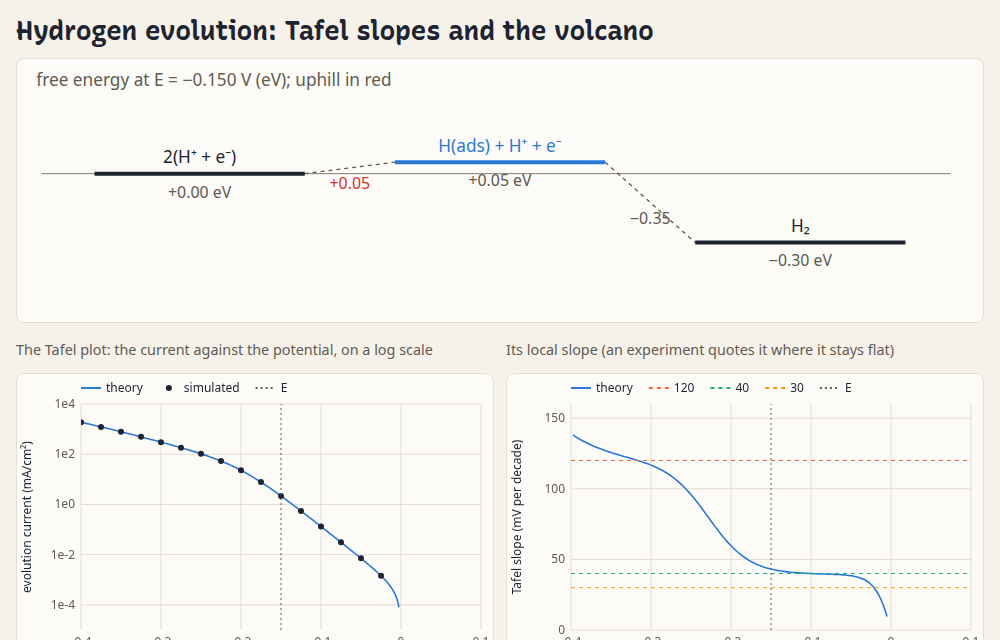
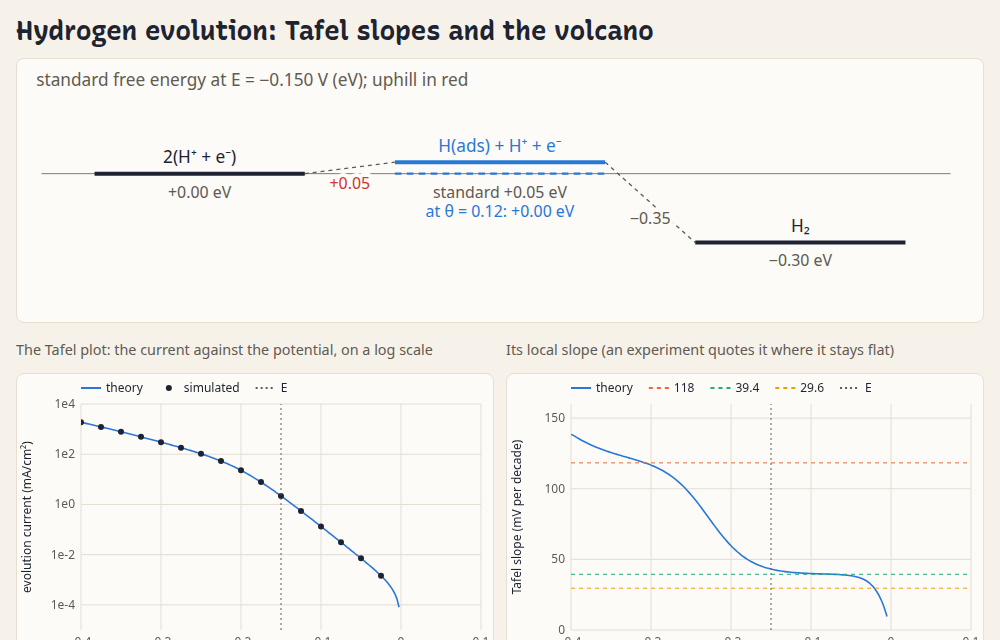
Hydrogen page: what a do-the-experiment review found
- The mirror (the Volmer route at −ΔG against the Heyrovsky route at +ΔG) held only at low drive: the
  fast step's constant differed between the routes. Now equal, so the mirror is exact at every potential
  (tested), and the coverage panel shows the bare sites θ₀ as well, so the swap can be seen.
- The menu's "slow" means a small rate constant; the text now says so, and that at the ends of the ΔG
  range the binding energy can hand much of the control to the other step.
- On the Tafel route a strong binder shows no Tafel region: the full-surface limit is i₀(1 + e^{ΔG/kT})²,
  1.06 i₀ at platinum's −0.09 eV (now said, and tested). The ΔG slider steps by 0.01 so −0.09 is reachable.
- A slow Volmer step leaves the surface barer as it's driven; "the surface fills" is for a fast one.
- The Heyrovsky slope passes up through 118 rather than settling there; the rise past it is from the
  acid's supply (90% left at −0.4 V, the rate going as its 3/2 power), now explained and tested at 139.
- The free-energy panel says its levels are standard, and adds H(ads) at its actual coverage (dashed),
  which puts the drive on the slow step; labels compact on a phone and haloed over the zero line.
- Small things: kT not RT with ΔG in eV, k_T defined, reference slopes at their exact values (118, 39.4,
  29.6), the slope readout at the slider's end, "at equilibrium" at E = 0, two decades at least on the
  Tafel plot, the volcano's ends unclipped.
[…]

Changed region(s): [[0.031, 0.0938, 0.465, 0.1562], [0.434, 0.25, 0.589, 0.3438], [0.744, 0.5938, 0.837, 0.625]]

diff --git a/demos/hydrogen.html b/demos/hydrogen.html
@@ -30,7 +30,7 @@
     below.)</p>
   <div class="controls">
     <label>route <select id="mech"><option value="volmer">Volmer–Heyrovsky, Volmer slow</option><option value="heyrovsky" selected>Volmer–Heyrovsky, Heyrovsky slow</option><option value="tafel">Volmer–Tafel, Tafel slow</option></select></label>
-    <label>ΔG<sub>H</sub> <input id="dG" type="range" min="-0.3" max="0.3" step="0.02" value="0.2"><output id="dGOut"></output></label>
+    <label>ΔG<sub>H</sub> <input id="dG" type="range" min="-0.3" max="0.3" step="0.01" value="0.2"><output id="dGOut"></output></label>
     <label>E <input id="E" type="range" min="-0.4" max="0.1" step="0.025" value="-0.15"><output id="EOut"></output></label>
     <span class="readout" id="status"></span>
   </div>
@@ -38,7 +38,7 @@
     <div class="levels wide" id="steps"></div>
     <div><p class="note">The Tafel plot: the current against the potential, on a log scale</p><canvas id="tafel"></canvas></div>
     <div><p class="note">Its local slope (an experiment quotes it where it stays flat)</p><canvas id="slope"></canvas></div>
-    <div><p class="note">The surface's hydrogen coverage</p><canvas id="cover"></canvas></div>
+    <div><p class="note">The surface's hydrogen coverage, and its bare sites</p><canvas id="cover"></canvas></div>
     <div><p class="note">Parsons's volcano: the exchange current against the binding energy</p><canvas id="volcano"></canvas></div>
   </div>
   <h2>About this simulation</h2>
@@ -49,30 +49,44 @@
     coverage settles where hydrogen arrives as fast as it leaves. Each step here has α = ½ (for the Tafel
     step, which moves no charge, that's the share of the binding energy its barrier feels), so an electron
     step's rate grows e-fold for every 2RT/F (51 mV) of overpotential: 118 mV per decade. If the Volmer step
-    is slow and the surface nearly bare, that's what the current shows. If it's fast, it holds the coverage
-    at its equilibrium with the potential, θ/θ₀ growing tenfold per 59 mV while the coverage is small: then
-    the Heyrovsky step's rate goes as θ times its own exponential, 40 mV per decade, and the Tafel step's as
-    θ², 30 mV per decade. Driven harder, the surface fills (the coverage panel) and the slopes bend: the
-    Heyrovsky step's back to 118, the Tafel step's to a limit it can't pass, its rate on a full surface,
-    2F k<sub>T</sub> e<sup>ΔG<sub>H</sub>/RT</sup>.</p>
+    is slow and the surface nearly bare, that's what the current shows (and the harder it's driven, the
+    barer the surface, the fast Heyrovsky step taking each hydrogen as it comes). If it's fast, it holds the
+    coverage at its equilibrium with the potential, θ/θ₀ growing tenfold per 59 mV while the coverage is
+    small: then the Heyrovsky step's rate goes as θ times its own exponential, 40 mV per decade, and the
+    Tafel step's as θ², 30 mV per decade. Driven harder, the surface fills (the coverage panel) and the
+    slopes bend: the Heyrovsky step's up through 118, the Tafel step's to a limit it can't pass, its rate on
+    a full surface, 2F k<sub>T</sub> e<sup>ΔG<sub>H</sub>/kT</sup> (k<sub>T</sub> its rate constant). On a strong
+    binder the surface is nearly full already at equilibrium, so that limit is barely above the exchange
+    current, i₀(1 + e<sup>ΔG<sub>H</sub>/kT</sup>)²: no Tafel region at all (try platinum's −0.09 eV on the Tafel
+    route). "Slow" in the menu means a small rate constant, 10⁴ or 10⁵ times below the other step's; but each
+    step's rate also carries the binding energy, as e<sup>±ΔG<sub>H</sub>/2kT</sup>, and at the ends of the range,
+    driven hard, that can hand much of the control to the other step (on the Volmer route at −0.3 eV and
+    −0.4 V, a little more than the Volmer step keeps).</p>
   <p>So the slope alone doesn't name the slow step. A slow Volmer step on a metal that binds hydrogen
     strongly (ΔG<sub>H</sub> below zero) gives 40 mV per decade too, on a nearly full surface, the mirror image
     of a slow Heyrovsky step on a weak binder: in these laws, swapping the two steps and the sign of
-    ΔG<sub>H</sub> swaps covered and bare sites (try the Volmer route at −0.2 eV and the Heyrovsky at +0.2). And
-    118 can be either step. What tells them apart is the coverage, which experiments measure only
-    indirectly. The local slope also plunges near equilibrium, where the reverse reaction takes over (no
-    experiment quotes a slope there), and rises above 118 at large currents, where the acid at the surface
-    runs low. The top panel is the free energies along the Volmer–Heyrovsky route at the potential E
-    (against the reversible hydrogen electrode): two protons and electrons, then H(ads) with one of each
-    left, at ΔG<sub>H</sub> + eE, then H₂ at 2eE, the picture computational catalysis uses. At E = 0 the two steps
-    are ΔG<sub>H</sub> and −ΔG<sub>H</sub>: one is uphill unless ΔG<sub>H</sub> = 0.</p>
+    ΔG<sub>H</sub> swaps covered and bare sites (try the Volmer route at −0.2 eV and the Heyrovsky at +0.2: the
+    same current at every potential, one's coverage the other's bare sites). And 118 can be either step. What
+    tells them apart is the coverage, which experiments measure only indirectly. The local slope also
+    plunges near equilibrium, where the reverse reaction takes over (no experiment quotes a slope there),
+    and rises past 118 at large currents, as the acid's supply through its 10 µm unstirred layer begins to
+    tell: at −0.4 V the surface still has 90% of the bulk's acid, but the rate goes as its 3/2 power (once for
+    the protons and half again for the diffusion potential their depletion sets up), so each further percent
+    drawn down costs a percent and a half of the rate, and the slope there is 139. The top panel is the free
+    energies along the Volmer–Heyrovsky route at the potential E (against the reversible hydrogen electrode):
+    two protons and electrons, then H(ads) with one of each left, at ΔG<sub>H</sub> + eE, then H₂ at 2eE, the
+    picture computational catalysis uses. Those are standard free energies, H(ads) at half coverage: at E = 0 the two
+    steps are ΔG<sub>H</sub> and −ΔG<sub>H</sub>, one uphill unless ΔG<sub>H</sub> = 0, but uphill there isn't the same as
+    slow. The dashed level is H(ads) at its actual coverage, ΔG<sub>H</sub> + eE + kT ln(θ/θ₀), and the drops
+    either side of it are what drive each step: nearly all of the drive falls on the slow step, and the
+    fast one sits near equilibrium. (On the Volmer–Tafel route the first drop is still the Volmer step's.)</p>
   <p>That is the volcano: bind hydrogen too weakly and putting it on the surface is uphill; too strongly and
     taking it off is. The exchange current peaks at ΔG<sub>H</sub> = 0, as Parsons (Trans. Faraday Soc. 54, 1053,
     1958) and, independently, Gerischer argued; Trasatti (1972) plotted measured exchange currents against
     metal–hydrogen bond strengths, and computed binding energies later put the metals on it (Nørskov and
     colleagues, J. Electrochem. Soc. 152, J23, 2005), platinum near its top (its computed ΔG<sub>H</sub> is about
     −0.09 eV). Here, with the same rate constants throughout and α = ½ for every step, the volcano is exactly
-    symmetric for every route: at equilibrium θ/θ₀ = e<sup>−ΔG<sub>H</sub>/RT</sup>, and each step's exchange rate goes
+    symmetric for every route: at equilibrium θ/θ₀ = e<sup>−ΔG<sub>H</sub>/kT</sup>, and each step's exchange rate goes
     as √(θθ₀) (the Tafel step's as θθ₀), which doesn't change when covered and bare swap. Its legs fall a
     decade per 118 meV (per 59 meV for the Tafel route); other models of the volcano give other slopes, and
     whether the measured volcano is one at all (or oxides on the strongly binding metals) is debated. The
@@ -105,7 +119,7 @@ const sites = 2.2e-5; // mol of sites per m² (platinum's surface atoms, about 1
 // Illustrative rate constants (mol/(m²·s)) that make each step the slow one in turn: the Volmer–Heyrovsky
 // route with either step slow, and the Volmer–Tafel route with the Tafel step slow.
 const MECHS = {
-  volmer: { V: 1e-6, H: 1e-2, T: 0 },
+  volmer: { V: 1e-6, H: 1e-1, T: 0 }, // (the heyrovsky route's mirror image)
   heyrovsky: { V: 1e-1, H: 1e-6, T: 0 },
   tafel: { V: 1e-1, H: 0, T: 1e-5 },
 };
@@ -146,7 +160,7 @@ function rates(E, dG, mech, lt, x) {
   return {
     V: k.V * Math.sqrt(x * th * th0) * g(aV, 0.5),
     H: k.H * Math.sqrt(x * th * th0) * g(aH, 0.5),
-    T: k.T * th * th0 * g(aT, 0.5), // (α = ½ here too: its forward rate k_T θ² e^{ΔG/RT}, as the binding energy shares itself)
+    T: k.T * th * th0 * g(aT, 0.5), // (α = ½ here too: its forward rate k_T θ² e^{ΔG/kT}, as the binding energy shares itself)
   };
 }
 // The steady state: the coverage where H(ads) arrives as fast as it leaves (bisection on ln(θ/θ₀)), the
@@ -198,6 +212,7 @@ function volcano(mech) {
 
 const mechIn = document.getElementById('mech'), dGIn = document.getElementById('dG'), EIn = document.getElementById('E');
 for (const el of [mechIn, dGIn, EIn]) fromQuery(el);
+const dec = (1e3 * Math.LN10) / f; // mV per decade: 59.2
 const signed = (v, d = 2) => `${v < 0 ? '−' : '+'}${Math.abs(v).toFixed(d)}`;
 const mA = (j) => j / 10; // A/m² to mA/cm²
 let run;
@@ -212,12 +227,16 @@ function update() {
   document.getElementById('EOut').textContent = `${signed(E, 3)} V vs RHE`;
   const here = steady(E, dG, mech), Et = Array.from({ length: 201 }, (_, j) => 0.1 - 0.0025 * j).filter((v) => Math.abs(v) > 1e-9);
   const th = Et.map((v) => steady(v, dG, mech));
-  const slope = Et.map((v, j) => (j > 0 && j < Et.length - 1 && th[j - 1].i > 0 && th[j + 1].i > 0 ? (1e3 * (Et[j - 1] - Et[j + 1])) / Math.log10(th[j + 1].i / th[j - 1].i) : NaN));
+  // (centred, and one-sided at the ends)
+  const slope = Et.map((v, j) => {
+    const a = Math.max(j - 1, 0), b = Math.min(j + 1, Et.length - 1);
+    return th[a].i > 0 && th[b].i > 0 ? (1e3 * (Et[a] - Et[b])) / Math.log10(th[b].i / th[a].i) : NaN;
+  });
   const at = Et.reduce((b, v, j) => (Math.abs(v - E) < Math.abs(Et[b] - E) ? j : b), 0);
-  document.getElementById('status').textContent = `at E ${signed(E, 3)} V: ${here.i >= 0 ? 'evolving' : 'oxidising'} H₂ at ${Math.abs(mA(here.i)).toPrecision(3)} mA/cm² · coverage ${here.theta.toPrecision(3)} · Tafel slope ${Number.isFinite(slope[at]) && Math.abs(slope[at]) < 1000 ? Math.abs(slope[at]).toFixed(0) + ' mV per decade' : Number.isFinite(slope[at]) ? 'off the scale (the current at its limit)' : '—'} · exchange current ${mA(exchange(dG, mech)).toPrecision(3)} mA/cm²`;
-  document.getElementById('steps').innerHTML = stepsSvg(E, dG, fitted(document.getElementById('steps'), 720));
+  document.getElementById('status').textContent = `at E ${signed(E, 3)} V: ${Math.abs(E) < 1e-9 ? 'at equilibrium, no net current' : `${here.i >= 0 ? 'evolving' : 'oxidising'} H₂ at ${Math.abs(mA(here.i)).toPrecision(3)} mA/cm²`} · coverage ${here.theta.toPrecision(3)} · Tafel slope ${Number.isFinite(slope[at]) && Math.abs(slope[at]) < 1000 ? Math.abs(slope[at]).toFixed(0) + ' mV per decade' : Number.isFinite(slope[at]) ? 'off the scale (the current at its limit)' : '—'} · exchange current ${mA(exchange(dG, mech)).toPrecision(3)} mA/cm²`;
+  document.getElementById('steps').innerHTML = stepsSvg(E, dG, here.theta, fitted(document.getElementById('steps'), 720));
   const mark = (y0, y1) => ({ x: [E, E], y: [y0, y1], color: 'var(--muted)', width: 1, dash: [2, 3], label: 'E' });
-  const ic = th.map((t) => (t.i > 0 ? mA(t.i) : NaN)), lo = 10 ** Math.floor(Math.log10(Math.min(...ic.filter((v) => v > 0)))), hi = 10 ** Math.ceil(Math.log10(Math.max(...ic.filter((v) => v > 0))));
+  const ic = th.map((t) => (t.i > 0 ? mA(t.i) : NaN)), lo = 10 ** Math.floor(Math.log10(Math.min(...ic.filter((v) => v > 0)))), hi = Math.max(10 ** Math.ceil(Math.log10(Math.max(...ic.filter((v) => v > 0)))), 100 * lo);
   chart(document.getElementById('tafel'), {
     xlabel: 'E (V vs RHE)', ylabel: 'evolution current (mA/cm²)', logy: true, ylim: [lo, hi],
     series: [
@@ -230,21 +249,22 @@ function update() {
     xlabel: 'E (V vs RHE)', ylabel: 'Tafel slope (mV per decade)', ylim: [0, 160],
     series: [
       { x: Et, y: slope.map((v) => (v > 0 ? v : NaN)), color: colors[0], width: 1.6, label: 'theory' },
-      ...[120, 40, 30].map((v, q) => ({ x: [-0.4, 0.1], y: [v, v], color: colors[[1, 2, 3][q]], width: 1, dash: [4, 4], label: `${v}` })),
+      ...[2, 2 / 3, 1 / 2].map((m, q) => ({ x: [-0.4, 0.1], y: [m * dec, m * dec], color: colors[[1, 2, 3][q]], width: 1, dash: [4, 4], label: (m * dec).toPrecision(3) })),
       mark(0, 160),
     ],
   });
   chart(document.getElementById('cover'), {
     xlabel: 'E (V vs RHE)', ylabel: 'coverage θ', logy: true, ylim: [1e-8, 1],
     series: [
-      { x: Et, y: th.map((t) => t.theta), color: colors[0], width: 1.6, label: 'theory' },
-      { x: Es, y: sim.map((s) => s.theta), color: 'var(--ink)', marker: true, width: 0, label: 'simulated' },
+      { x: Et, y: th.map((t) => t.theta), color: colors[0], width: 1.6, label: 'covered, θ' },
+      { x: Et, y: th.map((t) => 1 - t.theta), color: colors[0], width: 1.2, dash: [4, 4], label: 'bare, θ₀' },
+      { x: Es, y: sim.map((s) => s.theta), color: 'var(--ink)', marker: true, width: 0, label: 'simulated θ' },
       mark(1e-8, 1),
     ],
   });
   const gt = Array.from({ length: 121 }, (_, j) => -0.3 + 0.005 * j);
   chart(document.getElementById('volcano'), {
-    xlabel: 'ΔG_H (eV)', ylabel: 'exchange current (mA/cm²)', logy: true,
+    xlabel: 'ΔG_H (eV)', ylabel: 'exchange current (mA/cm²)', logy: true, xlim: [-0.33, 0.33],
     series: [
       { x: gt, y: gt.map((v) => mA(exchange(v, mech))), color: colors[0], width: 1.6, label: 'theory' },
       { x: dGs, y: vol.map(mA), color: 'var(--ink)', marker: true, width: 0, label: 'simulated' },
@@ -253,23 +273,33 @@ function update() {
   });
 }
 // The free-energy picture along the Volmer–Heyrovsky route: 2(H⁺ + e⁻), H(ads) + H⁺ + e⁻, H₂, at the potential E.
-function stepsSvg(E, dG, width) {
-  const H = 190, top = 30, bottom = 30, left = 20, right = width - 20;
+function stepsSvg(E, dG, theta, width) {
+  const narrow = width < 500, sz = narrow ? 10.5 : 12; // (a phone: smaller labels, shorter words)
+  const H = 190, top = 30, bottom = 30, left = narrow ? 6 : 20, right = width - left;
   const G = [0, dG + E, 2 * E], names = ['2(H⁺ + e⁻)', 'H(ads) + H⁺ + e⁻', 'H₂'];
-  const lo = Math.min(...G) - 0.15, hi = Math.max(...G) + 0.25, y = (v) => top + ((hi - v) / (hi - lo)) * (H - top - bottom);
+  const Ga = G[1] + (RT / FARADAY) * Math.log(theta / (1 - theta)); // H(ads) at its coverage (eV)
+  const lo = Math.min(...G, Ga) - 0.15, hi = Math.max(...G, Ga) + 0.25, y = (v) => top + ((hi - v) / (hi - lo)) * (H - top - bottom);
   const w = (right - left) / 3, xs = [0, 1, 2].map((k) => left + k * w + 0.15 * w), xe = xs.map((x) => x + 0.7 * w);
   const muted = 'var(--muted)', ink = 'var(--ink)';
-  const text = (x, yy, s, anchor, color, size = 13) => `<text x="${x}" y="${yy}" text-anchor="${anchor}" fill="${color}" font-size="${size}">${s}</text>`;
+  const text = (x, yy, s, anchor, color, size = 13) => `<text x="${x}" y="${yy}" text-anchor="${anchor}" fill="${color}" font-size="${size}" stroke="var(--panel)" stroke-width="6" stroke-linejoin="round" paint-order="stroke">${s}</text>`;
   const levels = G.map((v, k) => `<line x1="${xs[k]}" x2="${xe[k]}" y1="${y(v)}" y2="${y(v)}" stroke="${k === 1 ? 'var(--c1)' : ink}" stroke-width="3"/>`).join('');
   const links = [0, 1].map((k) => `<line x1="${xe[k]}" x2="${xs[k + 1]}" y1="${y(G[k])}" y2="${y(G[k + 1])}" stroke="${muted}" stroke-width="1" stroke-dasharray="3 3"/>`).join('');
   const step = (k) => G[k + 1] - G[k];
+  // H(ads)'s two levels, standard and at its coverage: each labelled under its line, or both under the lower when they're close
+  const actual = `${narrow ? 'θ' : 'at θ ='} ${theta.toPrecision(2)}: ${signed(Math.abs(Ga) < 0.005 ? 0 : Ga)} eV`, standard = `${narrow ? '' : 'standard '}${signed(G[1])} eV`, mid = (xs[1] + xe[1]) / 2;
+  const hadsLabels = () =>
+    Math.abs(y(Ga) - y(G[1])) < 28
+      ? text(mid, Math.max(y(G[1]), y(Ga)) + 18, standard, 'middle', muted, sz) + text(mid, Math.max(y(G[1]), y(Ga)) + 18 + 1.25 * sz, actual, 'middle', 'var(--c1)', sz)
+      : text(mid, y(G[1]) + 18, standard, 'middle', muted, sz) + text(mid, y(Ga) + 18, actual, 'middle', 'var(--c1)', sz);
   return `<svg viewBox="0 0 ${width} ${H}" role="img" aria-label="free energies along the Volmer–Heyrovsky route at the potential E: two protons and electrons, adsorbed hydrogen with one of each, and a hydrogen molecule" font-family="system-ui, sans-serif" style="width:100%;height:auto;display:block">
     <line x1="${left - 6}" x2="${right}" y1="${y(0)}" y2="${y(0)}" stroke="${muted}" stroke-width="0.6"/>
     ${links}${levels}
-    ${G.map((v, k) => text((xs[k] + xe[k]) / 2, y(v) - 8, names[k], 'middle', k === 1 ? 'var(--c1)' : ink)).join('')}
-    ${G.map((v, k) => text((xs[k] + xe[k]) / 2, y(v) + 18, `${signed(v)} eV`, 'middle', muted, 12)).join('')}
-    ${[0, 1].map((k) => text((xe[k] + xs[k + 1]) / 2, (y(G[k]) + y(G[k + 1])) / 2 + 16, `${signed(step(k))}`, 'middle', step(k) > 0 ? 'var(--mark)' : muted, 12)).join('')}
-    ${text(10, 16, `free energy at E = ${signed(E, 3)} V (eV); uphill in red`, 'start', muted, 13)}
+    <line x1="${xs[1]}" x2="${xe[1]}" y1="${y(Ga)}" y2="${y(Ga)}" stroke="var(--c1)" stroke-width="1.6" stroke-dasharray="5 4"/>
+    ${G.map((v, k) => text((xs[k] + xe[k]) / 2, (k === 1 ? Math.min(y(v), y(Ga)) : y(v)) - 8, names[k], 'middle', k === 1 ? 'var(--c1)' : ink, narrow ? 12 : 13)).join('')}
+    ${[0, 2].map((k) => text((xs[k] + xe[k]) / 2, y(G[k]) + 18, `${signed(G[k])} eV`, 'middle', muted, sz)).join('')}
+    ${hadsLabels()}
+    ${[0, 1].map((k) => text((xe[k] + xs[k + 1]) / 2, (y(G[k]) + y(G[k + 1])) / 2 + 16, `${signed(step(k))}`, 'middle', step(k) > 0 ? 'var(--mark)' : muted, sz)).join('')}
+    ${text(10, 16, `standard free energy at E = ${signed(E, 3)} V (eV); uphill in red`, 'start', muted, 13)}
   </svg>`;
 }
 mechIn.addEventListener('change', rebuild);

diff --git a/test/demos.test.js b/test/demos.test.js
@@ -540,14 +540,21 @@ test('demos/hydrogen.html: the three routes against their steady theory, the Taf
     });
   }
   // the Tafel slopes (mV per decade, from ±2 mV): a slow Volmer step 118 on a weak binder and 40 on a strong
-  // one (θ near 1), the mirror image of a slow Heyrovsky step's 40 on a weak binder, which bends back to about
-  // 118 as the surface fills; a slow Tafel step 29.7, then its limit on a full surface, 2F k_T e^{ΔG/RT}
+  // one (θ near 1), the mirror image of a slow Heyrovsky step's 40 on a weak binder, which bends up through
+  // 118 as the surface fills; a slow Tafel step 29.7, then its limit on a full surface, 2F k_T e^{ΔG/kT}
   const slope = (E, dG, mech) => 4 / Math.log10(steady(E - 0.002, dG, mech).i / steady(E + 0.002, dG, mech).i);
   assert.ok(Math.abs(slope(-0.25, 0.2, 'volmer') - 118.3) < 0.2);
   assert.ok(Math.abs(slope(-0.1, -0.2, 'volmer') - 40) < 1 && steady(-0.1, -0.2, 'volmer').theta > 0.9);
   assert.ok(Math.abs(slope(-0.075, 0.2, 'heyrovsky') - 39.5) < 0.3 && steady(-0.075, 0.2, 'heyrovsky').theta < 0.01);
   assert.ok(Math.abs(slope(-0.29, 0.2, 'heyrovsky') - 118) < 6);
-  assert.ok(slope(-0.4, 0.2, 'heyrovsky') > 125); // (above 118 where the acid at the surface runs low)
+  assert.ok(Math.abs(slope(-0.4, 0.2, 'heyrovsky') - 139) < 1 && Math.abs(steady(-0.4, 0.2, 'heyrovsky').x - 0.9) < 0.01); // (the acid's supply)
+  // the mirror: the Volmer route at −ΔG the Heyrovsky route at +ΔG, the same current, covered and bare swapped
+  for (const E of [0.05, -0.1, -0.2, -0.3, -0.4]) {
+    const a = steady(E, -0.2, 'volmer'), b = steady(E, 0.2, 'heyrovsky');
+    assert.ok(Math.abs(a.i / b.i - 1) < 1e-9 && Math.abs(a.theta + b.theta - 1) < 1e-9, `mirror at ${E}`);
+  }
+  // the Tafel route's limit, i₀(1 + e^{ΔG/kT})²: 1.06 i₀ at platinum's −0.09 eV (i₀ from ±1 mV, so 1e-3)
+  for (const dG of [-0.09, 0, 0.1]) assert.ok(Math.abs(steady(-1, dG, 'tafel').i / exchange(dG, 'tafel') / (1 + Math.exp((dG * FARADAY) / (8.314462618 * 298.15))) ** 2 - 1) < 1e-3, `tafel limit ${dG}`);
   assert.ok(Math.abs(slope(-0.075, 0.2, 'tafel') - 29.7) < 0.3);
   const lim = 2 * FARADAY * MECHS.tafel.T * Math.exp((-0.2 * FARADAY) / (8.314462618 * 298.15));
   assert.ok(Math.abs(steady(-0.6, -0.2, 'tafel').i / lim - 1) < 1e-3 && steady(-0.6, -0.2, 'tafel').theta > 0.99);

diff --git a/demos/plot.js b/demos/plot.js
@@ -87,7 +87,7 @@ export function chart(canvas, { series, xlabel = '', ylabel = '', xlim, ylim, lo
   ctx.fillStyle = muted;
   ctx.strokeStyle = grid;
   ctx.lineWidth = 1;
-  for (const t of logx ? ticks(Math.ceil(x0), Math.floor(x1), 6).filter(Number.isInteger) : ticks(x0, x1, 6)) {
+  for (const t of logx ? decades(x0, x1) : ticks(x0, x1, 6)) {
     ctx.beginPath();
     ctx.moveTo(px(t), pad.t);
     ctx.lineTo(px(t), H - pad.b);
@@ -95,7 +95,7 @@ export function chart(canvas, { series, xlabel = '', ylabel = '', xlim, ylim, lo
     ctx.textAlign = 'center';
     ctx.fillText(logx ? `1e${t}` : fmt(t), px(t), H - pad.b + 16);
   }
-  for (const t of logy ? ticks(Math.ceil(y0), Math.floor(y1), 6).filter(Number.isInteger) : ticks(y0, y1, 5)) {
+  for (const t of logy ? decades(y0, y1) : ticks(y0, y1, 5)) {
     ctx.beginPath();
     ctx.moveTo(pad.l, py(t));
     ctx.lineTo(W - pad.r, py(t));
@@ -194,9 +194,12 @@ function ticks(a, b, n) {
   const mag = 10 ** Math.floor(Math.log10(step0));
   const step = [1, 2, 5, 10].map((m) => m * mag).find((s) => s >= step0) ?? 10 * mag;
   const out = [];
-  for (let t = Math.ceil(a / step) * step; t <= b + 1e-9 * step; t += step) out.push(Math.abs(t) < 1e-12 * step ? 0 : t);
+  // (counted, not summed, and a/step allowed its round-off: −0.3/0.1 is −2.9999999999999996)
+  for (let k = Math.ceil(a / step - 1e-9); k * step <= b + 1e-9 * step; k++) out.push(k === 0 ? 0 : k * step);
   return out;
 }
+// A log axis's ticks, whole decades (a and b in log10)
+const decades = (a, b) => ticks(Math.ceil(a - 1e-9), Math.floor(b + 1e-9), 6).map(Math.round).filter((t, k, all) => all.indexOf(t) === k);
 
 function fmt(v) {
   const a = Math.abs(v);
